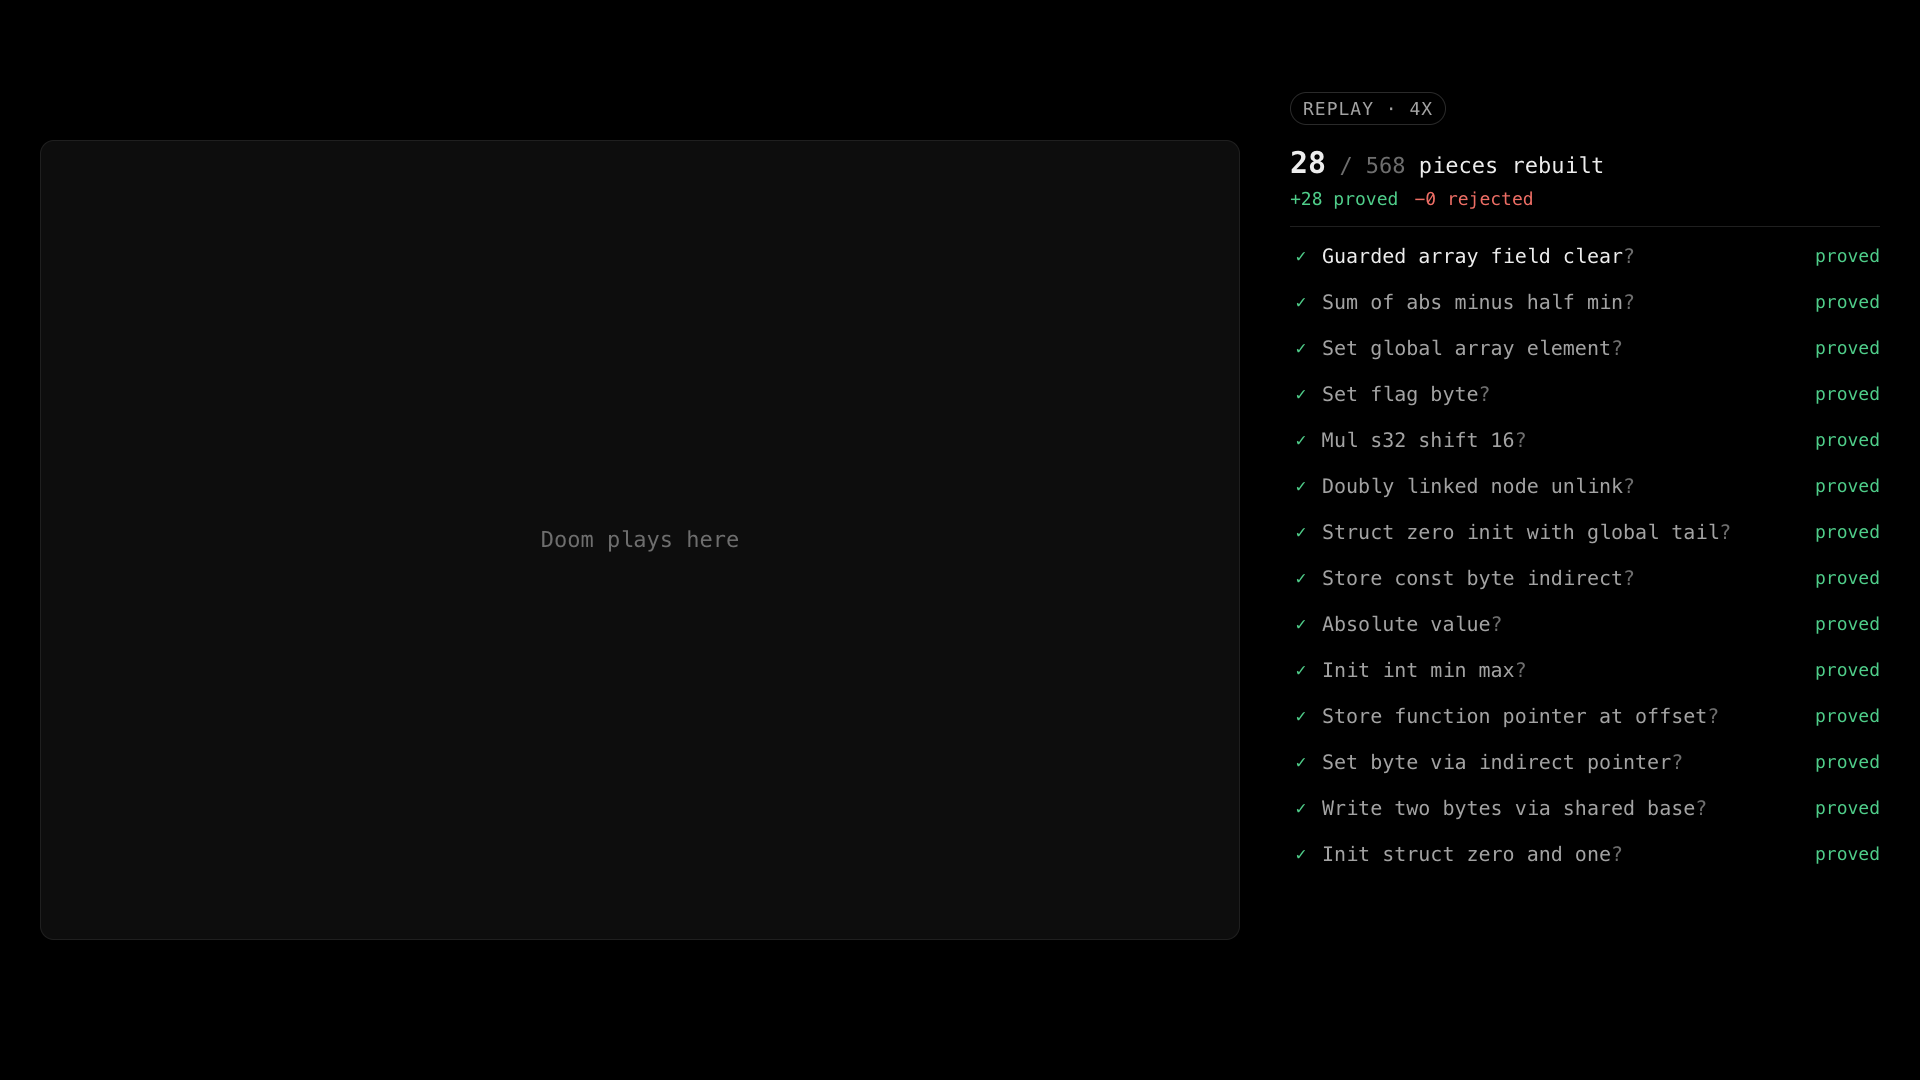
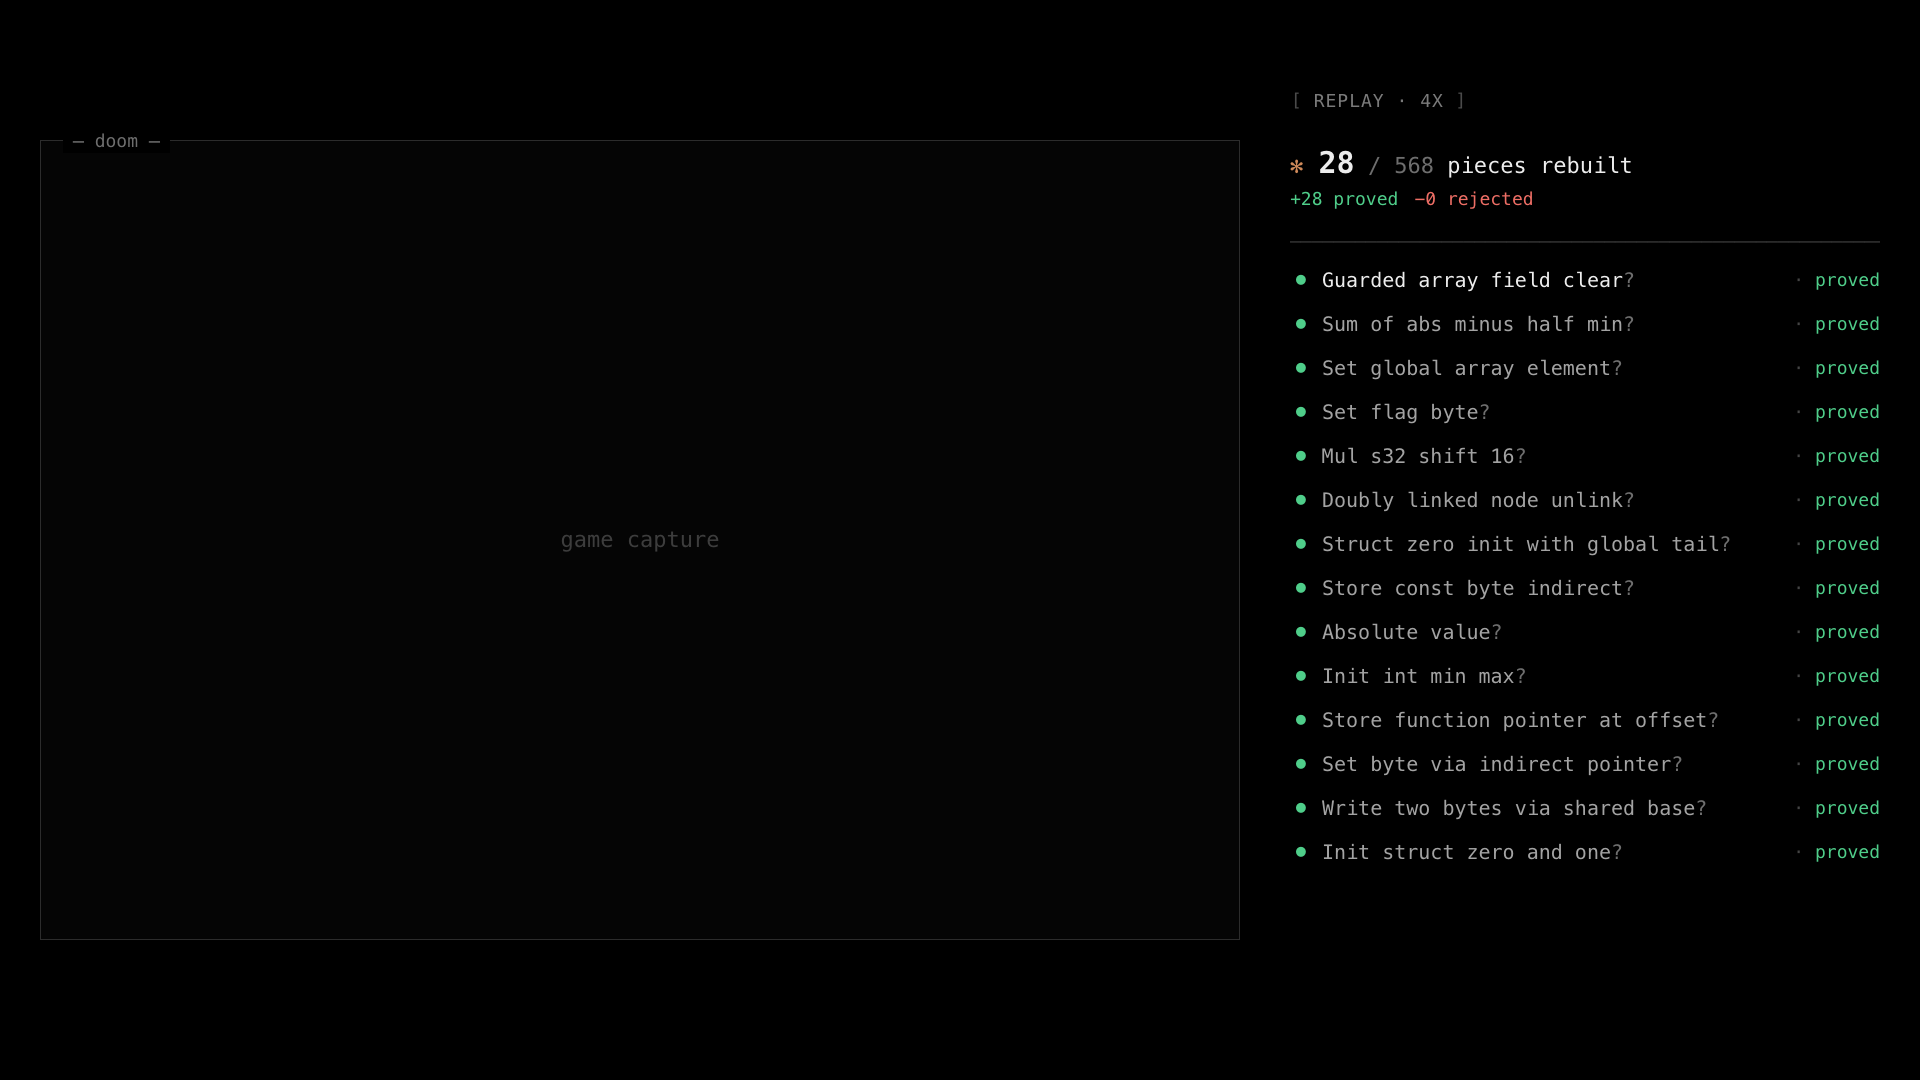
stage: older terminal feel for the log, like a coding-agent CLI
The game window is a square pane titled '─ doom ─'. The log reads like a
terminal transcript: a star before the count, a character rule, a coloured
dot per entry ('· proved' / '· rejected'), the reason indented under a
rejection, and the REPLAY / SAMPLE DATA label in [ brackets ]. Same data and
honesty rules.

diff --git a/stage/src/scenes/log.css b/stage/src/scenes/log.css
@@ -62,3 +62,21 @@ body.obs .lg-game span { display: none; }
 }
 .stage[data-scene='card'] #mark { left: 50%; transform: translateX(-50%); top: 60px; }
 .stage[data-scene='log'] #mark.bad, .stage[data-scene='card'] #mark.bad { color: #ee6e65; border-color: #5a2a26; }
+
+/* ---- older terminal feel (Claude Code style): square corners, character rules, ⏺ bullets, ⎿ indents, [ brackets ] ---- */
+.lg-game { border-radius: 0; border-color: #2c2c2c; background: #050505; overflow: visible; }
+.lg-game .ttl { position: absolute; top: -12px; left: 22px; padding: 0 10px; background: #000; font: 400 18px/24px var(--mono); color: var(--mute); }
+.lg-game .ttl::before { content: '─ '; } .lg-game .ttl::after { content: ' ─'; }
+body.obs .lg-game .ttl { display: none; }
+.lg-game span { text-transform: none; color: #3d3d3d; }
+.lg-head { border-bottom: 0; margin-bottom: 0; padding-bottom: 10px; }
+.lg-head .star { font-style: normal; color: #d08a5a; margin-right: 2px; }
+.lg-head::after { content: '────────────────────────────────────────────────────────────────'; display: block; overflow: hidden; color: #333; font: 400 18px/1 var(--mono); padding-top: 12px; letter-spacing: 0; }
+.lg-log li { padding: 8px 0; }
+.lg-log li i { font-size: 18px; }
+.lg-log li .st::before { content: '· '; color: #444; }
+.lg-log li.no .why { color: #8a8a8a; padding-top: 4px; }
+.lg-log li.no .why u { text-decoration: none; color: #555; margin-right: 10px; }
+.stage[data-scene='log'] #mark, .stage[data-scene='card'] #mark { border: 0; border-radius: 0; padding: 0; color: #7a7a7a; }
+.stage[data-scene='log'] #mark::before, .stage[data-scene='card'] #mark::before { content: '[ '; color: #4a4a4a; }
+.stage[data-scene='log'] #mark::after, .stage[data-scene='card'] #mark::after { content: ' ]'; color: #4a4a4a; }

diff --git a/stage/src/scenes/log.ts b/stage/src/scenes/log.ts
@@ -29,11 +29,11 @@ export class LogScene implements Scene {
   constructor() {
     const game = new URLSearchParams(location.search).get('game');
     this.el.innerHTML = `
-      <div class="lg-game">${game ? `<iframe src="${esc(game)}" allow="cross-origin-isolated; autoplay; gamepad; fullscreen"></iframe>` : '<span>Doom plays here</span>'}</div>
+      <div class="lg-game"><b class="ttl">doom</b>${game ? `<iframe src="${esc(game)}" allow="cross-origin-isolated; autoplay; gamepad; fullscreen"></iframe>` : '<span>game capture</span>'}</div>
       <div class="lg-side">
         <div class="lg-panel">
           <div class="lg-head">
-            <span class="cnt"><b data-k="n">0</b> <span data-k="of">/ 568</span> pieces rebuilt</span>
+            <span class="cnt"><i class="star">✻</i> <b data-k="n">0</b> <span data-k="of">/ 568</span> pieces rebuilt</span>
             <span class="tot"><em class="p" data-k="p">+0</em><em class="r" data-k="r">−0</em></span>
           </div>
           <ol class="lg-log" data-k="log"></ol>
@@ -67,8 +67,8 @@ export class LogScene implements Scene {
           const n = nameOf(ctx, e.fn);
           const name = `<span class="nm${n.guess ? ' guess' : ''}">${esc(n.text)}${n.guess ? '<em>?</em>' : ''}</span>`;
           return e.ok
-            ? `<li class="ok"><i>✓</i>${name}<span class="st">proved</span></li>`
-            : `<li class="no"><i>✗</i>${name}<span class="st">rejected</span><span class="why">${esc(e.why)}</span></li>`;
+            ? `<li class="ok"><i>⏺</i>${name}<span class="st">proved</span></li>`
+            : `<li class="no"><i>⏺</i>${name}<span class="st">rejected</span><span class="why"><u>⎿</u>${esc(e.why)}</span></li>`;
         }).join('')
       : '<li class="wait">Waiting for the first piece…</li>';
   }
